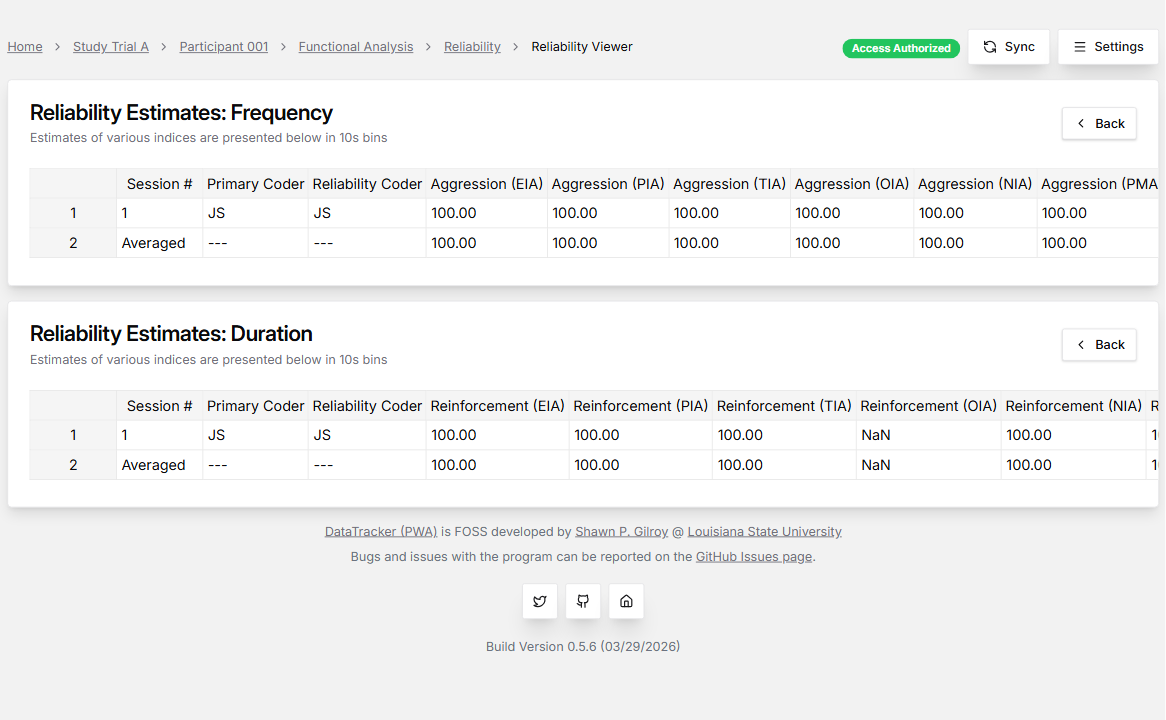
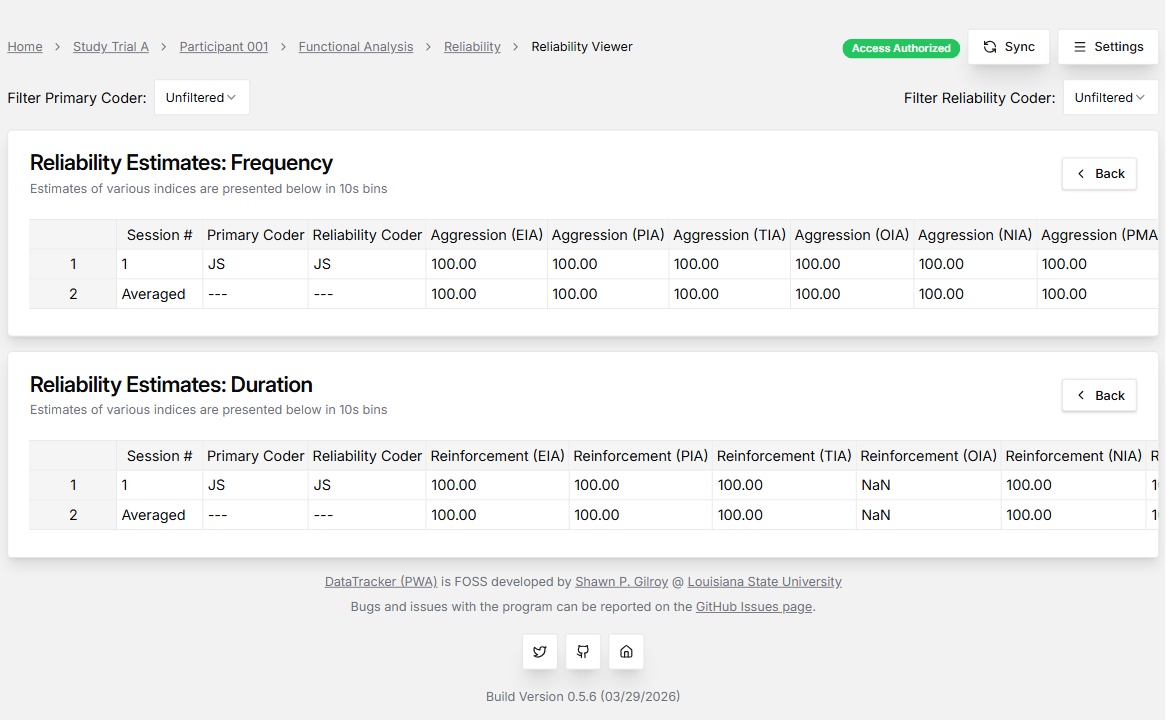
Merge pull request #42 from miyamot0/reli-expand
Add in features to support easier reli calculations across multiple primary/reli raters. Fix build quirks related to SW and islanded (offline) builds.

Pull request: Reli expand

diff --git a/src/components/pages/summary-agreement/reli-viewer-page.tsx b/src/components/pages/summary-agreement/reli-viewer-page.tsx
@@ -1,6 +1,10 @@
 import ReliabilityViewerContent from './views/reli-viewer-content';
 import { ReliabilityPairType } from '@/types/reli';
 import { KeySet } from '@/types/keyset';
+import { useMemo, useState } from 'react';
+import { Select, SelectContent, SelectItem, SelectTrigger, SelectValue } from '@/components/ui/select';
+
+const UNFILTERED_STRING = 'Unfiltered';
 
 export default function ReliabilityViewerPage({
   Group,
@@ -13,5 +17,69 @@ export default function ReliabilityViewerPage({
   PairedSession: ReliabilityPairType[];
   Keyset: KeySet;
 }) {
-  return <ReliabilityViewerContent Group={Group} Individual={Individual} Paired={PairedSession} Keyset={Keyset} />;
+  const primaryRaters = Array.from(new Set(PairedSession.map((pair) => pair.primary.SessionSettings.Initials)));
+  const reliRaters = Array.from(new Set(PairedSession.map((pair) => pair.reli.SessionSettings.Initials)));
+
+  const [primaryRater, setPrimaryRater] = useState<string | null>(null);
+  const [reliRater, setReliRater] = useState<string | null>(null);
+
+  const memoizedRaterArray = useMemo(() => {
+    let filtered = PairedSession;
+
+    if (primaryRater && primaryRater !== UNFILTERED_STRING) {
+      filtered = filtered.filter((pair) => pair.primary.SessionSettings.Initials === primaryRater);
+    }
+
+    if (reliRater && reliRater !== UNFILTERED_STRING) {
+      filtered = filtered.filter((pair) => pair.reli.SessionSettings.Initials === reliRater);
+    }
+
+    return filtered;
+  }, [primaryRater, reliRater, PairedSession]);
+
+  return (
+    <div className="flex flex-col w-full gap-4">
+      <div className="w-full flex flex-row justify-between">
+        <div className="flex flex-row items-center gap-2 w-fit">
+          <p>Filter Primary Coder:</p>
+          <Select onValueChange={(value) => setPrimaryRater(value)} defaultValue={primaryRater || UNFILTERED_STRING}>
+            <SelectTrigger className="w-fit">
+              <SelectValue placeholder="Filter Primary Data Coder" />
+            </SelectTrigger>
+            <SelectContent>
+              <SelectItem key={UNFILTERED_STRING} value={UNFILTERED_STRING}>
+                {UNFILTERED_STRING}
+              </SelectItem>
+              {primaryRaters.map((rater) => (
+                <SelectItem key={rater} value={rater}>
+                  {rater}
+                </SelectItem>
+              ))}
+            </SelectContent>
+          </Select>
+        </div>
+
+        <div className="flex flex-row items-center gap-2 w-fit">
+          <p>Filter Reliability Coder:</p>
+          <Select onValueChange={(value) => setReliRater(value)} defaultValue={reliRater || UNFILTERED_STRING}>
+            <SelectTrigger className="w-fit">
+              <SelectValue placeholder="Filter Reliability Coder" />
+            </SelectTrigger>
+            <SelectContent>
+              <SelectItem key={UNFILTERED_STRING} value={UNFILTERED_STRING}>
+                {UNFILTERED_STRING}
+              </SelectItem>
+              {reliRaters.map((rater) => (
+                <SelectItem key={rater} value={rater}>
+                  {rater}
+                </SelectItem>
+              ))}
+            </SelectContent>
+          </Select>
+        </div>
+      </div>
+
+      <ReliabilityViewerContent Group={Group} Individual={Individual} Paired={memoizedRaterArray} Keyset={Keyset} />
+    </div>
+  );
 }

diff --git a/src/routes/session/$group/$individual/$evaluation/reli.tsx b/src/routes/session/$group/$individual/$evaluation/reli.tsx
@@ -8,12 +8,16 @@ import {
   BuildIndividualsBreadcrumb,
 } from '@/components/ui/breadcrumb-entries';
 import { filterSessionsByPrimaryRole, filterSessionsByReliabilityRole } from '@/lib/graphing/session-filters';
-import { pullMostRecentKeySet } from '@/lib/keyset';
+import { pullMostRecentSession } from '@/lib/keyset';
 import { getCorrespondingSessionPairs } from '@/lib/reli';
 import { CleanUpString } from '@/lib/strings';
 import { sessionOutcomesQueryOptions } from '@/queries/outcomes/query-session-outcomes';
 import { ModifiedSessionResult } from '@/types/storage';
 import { Await, createFileRoute, redirect } from '@tanstack/react-router';
+import { keyboardQueryOptions } from '@/queries/keysets/query-keyboards';
+import { KeySet } from '@/types/keyset';
+import { ErrorDisplay } from '@/components/elements/suspense/error-display';
+import { extractAndDeduplicateKeysets } from '@/lib/graphing';
 
 export const Route = createFileRoute('/session/$group/$individual/$evaluation/reli')({
   beforeLoad: ({ context, params }) => {
@@ -51,12 +55,15 @@ export const Route = createFileRoute('/session/$group/$individual/$evaluation/re
     const fetchSessionOutcomes = context.queryClient.fetchQuery(
       sessionOutcomesQueryOptions(CleanHandle, Group, Individual, Evaluation),
     );
+    const fetchKeyboards = context.queryClient.fetchQuery(keyboardQueryOptions(CleanHandle, Group, Individual));
+
+    const totalQuery = Promise.all([fetchSessionOutcomes, fetchKeyboards]);
 
     return {
       Group,
       Individual,
       Evaluation,
-      fetchSessionOutcomes,
+      totalQuery,
       Settings,
     };
   },
@@ -64,7 +71,7 @@ export const Route = createFileRoute('/session/$group/$individual/$evaluation/re
 });
 
 function RouteComponent() {
-  const { Group, Individual, Evaluation, fetchSessionOutcomes } = Route.useLoaderData();
+  const { Group, Individual, Evaluation, totalQuery } = Route.useLoaderData();
 
   return (
     <PageWrapper
@@ -76,24 +83,63 @@ function RouteComponent() {
       label={`Reliability for ${Evaluation}`}
       className="select-none"
     >
-      <Await promise={fetchSessionOutcomes} fallback={<LoadingDisplay />}>
-        {(sessions: ModifiedSessionResult[]) => {
-          const KeySet = pullMostRecentKeySet(sessions);
+      <Await promise={totalQuery} fallback={<LoadingDisplay />}>
+        {([sessions, keyboards]: [ModifiedSessionResult[], KeySet[]]) => {
           const resultsPrimary = filterSessionsByPrimaryRole(sessions);
           const resultsReli = filterSessionsByReliabilityRole(sessions);
           const pairedSessionData = getCorrespondingSessionPairs(resultsPrimary, resultsReli);
 
-          // If there are no paired sessions, show the blank state
+          // If there are no sessions, show the blank state
           if (pairedSessionData.length < 1) {
-            return <ReliabilityBlank Group={Group} Individual={Individual} Evaluation={Evaluation} />;
+            return <ReliabilityBlank />;
           }
+
+          const resultsFiltered = filterSessionsByPrimaryRole(sessions);
+          const recentKeysetName = pullMostRecentSession(resultsFiltered);
+
+          const designerKeySet = keyboards.find((k: KeySet) => k.Name == recentKeysetName.SessionSettings.KeySet);
+          const sessionKeySet = recentKeysetName.Keyset;
+
+          if (!sessionKeySet) {
+            return <ErrorDisplay Text={'KeySet not found.'} />;
+          }
+
+          const {
+            frequencyKeys: targetedFKeys,
+            durationKeys: targetedDKeys,
+            derivedKeys: targetedDerivedKeys,
+            specialDurationKeys,
+            scorableDurationKeys,
+          } = extractAndDeduplicateKeysets(sessions, {
+            ...sessionKeySet,
+            FrequencyKeys: [...sessionKeySet.FrequencyKeys, ...(designerKeySet?.FrequencyKeys || [])],
+            DurationKeys: [...sessionKeySet.DurationKeys, ...(designerKeySet?.DurationKeys || [])],
+            DerivedKeys: [...(sessionKeySet.DerivedKeys || []), ...(designerKeySet?.DerivedKeys || [])],
+            SpecialDurationKeys: [
+              ...(sessionKeySet.SpecialDurationKeys || []),
+              ...(designerKeySet?.SpecialDurationKeys || []),
+            ],
+            ScorableDurationKeys: [
+              ...(sessionKeySet.ScorableDurationKeys || []),
+              ...(designerKeySet?.ScorableDurationKeys || []),
+            ],
+          });
+
+          const dynamicKeyset = {
+            ...sessionKeySet,
+            FrequencyKeys: targetedFKeys,
+            DurationKeys: targetedDKeys,
+            DerivedKeys: targetedDerivedKeys,
+            SpecialDurationKeys: specialDurationKeys,
+            ScorableDurationKeys: scorableDurationKeys,
+          } satisfies KeySet;
 
           return (
             <ReliabilityViewerPage
               Group={Group}
               Individual={Individual}
               PairedSession={pairedSessionData}
-              Keyset={KeySet}
+              Keyset={dynamicKeyset}
             />
           );
         }}

diff --git a/src/components/pages/summary-agreement/views/reli-blank.tsx b/src/components/pages/summary-agreement/views/reli-blank.tsx
@@ -1,42 +1,20 @@
-import PageWrapper from '@/components/elements/page-wrapper';
 import BackButton from '@/components/ui/back-button';
-import {
-  BuildEvaluationsBreadcrumb,
-  BuildGroupBreadcrumb,
-  BuildIndividualsBreadcrumb,
-} from '@/components/ui/breadcrumb-entries';
 import { Card, CardContent, CardDescription, CardHeader, CardTitle } from '@/components/ui/card';
-import { CleanUpString } from '@/lib/strings';
 
-type Props = {
-  Group: string;
-  Individual: string;
-  Evaluation: string;
-};
-
-export default function ReliabilityBlank({ Group, Individual, Evaluation }: Props) {
+export default function ReliabilityBlank() {
   return (
-    <PageWrapper
-      breadcrumbs={[
-        BuildGroupBreadcrumb(),
-        BuildIndividualsBreadcrumb(Group),
-        BuildEvaluationsBreadcrumb(Group, Individual),
-      ]}
-      label={`Reliability for ${CleanUpString(Evaluation)}`}
-    >
-      <div className="flex flex-col w-full gap-4">
-        <Card className="w-full">
-          <CardHeader className="flex flex-row justify-between">
-            <div className="flex flex-col gap-1.5 grow">
-              <CardTitle>Reliability Viewer</CardTitle>
-              <CardDescription>Error in Calculating Reliability</CardDescription>
-            </div>
-            <BackButton />
-          </CardHeader>
+    <div className="flex flex-col w-full gap-4">
+      <Card className="w-full">
+        <CardHeader className="flex flex-row justify-between">
+          <div className="flex flex-col gap-1.5 grow">
+            <CardTitle>Reliability Viewer</CardTitle>
+            <CardDescription>Error in Calculating Reliability</CardDescription>
+          </div>
+          <BackButton />
+        </CardHeader>
 
-          <CardContent>No data files are currently available to inspect.</CardContent>
-        </Card>
-      </div>
-    </PageWrapper>
+        <CardContent>No data files are currently available to inspect.</CardContent>
+      </Card>
+    </div>
   );
 }

diff --git a/src/components/pages/summary-agreement/views/__tests__/reli-blank.spec.tsx b/src/components/pages/summary-agreement/views/__tests__/reli-blank.spec.tsx
@@ -49,15 +49,6 @@ import { FolderContextProvider } from '@/context/folder-context';
 describe('ReliabilityBlank', () => {
   const defaultProps = { Group: 'GroupA', Individual: 'ClientB', Evaluation: 'Eval1' };
 
-  it('renders inside a PageWrapper', async () => {
-    await render(
-      <FolderContextProvider>
-        <ReliabilityBlank {...defaultProps} />
-      </FolderContextProvider>,
-    );
-    await expect.element(page.getByRole('main')).toBeInTheDocument();
-  });
-
   it('renders the Reliability Viewer card title', async () => {
     await render(
       <FolderContextProvider>
@@ -94,4 +85,3 @@ describe('ReliabilityBlank', () => {
     await expect.element(page.getByText('No data files are currently available to inspect.')).toBeInTheDocument();
   });
 });
-

diff --git a/src/lib/analytics/analytics-sync.ts b/src/lib/analytics/analytics-sync.ts
@@ -63,16 +63,10 @@ function initializeGoogleAnalytics() {
   if (analyticsConfig.measurementId) {
     window.gtag('config', analyticsConfig.measurementId, {
       send_page_view: false, // important for SPA/PWA
-      // Enhanced privacy settings
       anonymize_ip: true,
       allow_google_signals: false,
       allow_ad_personalization_signals: false,
-      // Performance settings
       transport_type: 'beacon',
-      // Custom settings for your research app
-      custom_map: {
-        custom_parameter_1: 'research_session',
-      },
     });
 
     if (analyticsConfig.isDev) {
@@ -88,6 +82,8 @@ export function startAnalyticsSync() {
   if (!analyticsConfig.enabled) {
     if (analyticsConfig.isDev) {
       console.log('📊 Analytics disabled via config');
+
+      return;
     }
     return;
   }

diff --git a/src/main.tsx b/src/main.tsx
@@ -10,10 +10,12 @@ import '@/styles/Spreadsheet.css';
 import { initializeSharedArrayBufferSupport } from '@/lib/shared-buffer.ts';
 import { startAnalyticsSync } from './lib/analytics/analytics-sync.ts';
 import { setupErrorTracking } from './lib/analytics/analytics-errors.ts';
-import { registerSW } from 'virtual:pwa-register';
 
-// Update the service worker immediately when a new version is available
-registerSW({ immediate: true });
+if (import.meta.env.VITE_MODE !== 'island') {
+  import('./config/pwa-registration').then(({ init }) => {
+    init();
+  });
+}
 
 // Initialize SharedArrayBuffer support check
 initializeSharedArrayBufferSupport();

diff --git a/src/config/pwa-registration.ts b/src/config/pwa-registration.ts
@@ -1,0 +1,6 @@
+import { registerSW } from 'virtual:pwa-register';
+
+export function init() {
+  // Update the service worker immediately when a new version is available
+  registerSW({ immediate: true });
+}

diff --git a/src/components/pages/summary-agreement/views/reli-viewer-content.tsx b/src/components/pages/summary-agreement/views/reli-viewer-content.tsx
@@ -17,7 +17,7 @@ export default function ReliabilityViewerContent({ Paired, Keyset }: Props) {
   const durationData = prepareDurationReliTable(Paired, Keyset);
 
   return (
-    <div className="flex flex-col w-full gap-4">
+    <>
       <Card className="w-full">
         <CardHeader className="flex flex-row justify-between">
           <div className="flex flex-col gap-1.5 grow">
@@ -57,6 +57,6 @@ export default function ReliabilityViewerContent({ Paired, Keyset }: Props) {
           />
         </CardContent>
       </Card>
-    </div>
+    </>
   );
 }

diff --git a/README.md b/README.md
@@ -1,4 +1,4 @@
-![Static Badge Lines](<https://img.shields.io/badge/Coverage_(Lines)-97.53_Percent-green>) ![Static Badge Branches](<https://img.shields.io/badge/Coverage_(Branches)-95.12_Percent-green>) ![Static Badge Functions](<https://img.shields.io/badge/Coverage_(Functions)-98.54_Percent-green>)
+![Static Badge Lines](<https://img.shields.io/badge/Coverage_(Lines)-97.36_Percent-green>) ![Static Badge Branches](<https://img.shields.io/badge/Coverage_(Branches)-94.92_Percent-green>) ![Static Badge Functions](<https://img.shields.io/badge/Coverage_(Functions)-98.17_Percent-green>)
 
 ![Static Badge Version](https://img.shields.io/badge/Version-0.5.8-blue) ![Static Badge License](https://img.shields.io/badge/License-Apache_2.0-purple)
 